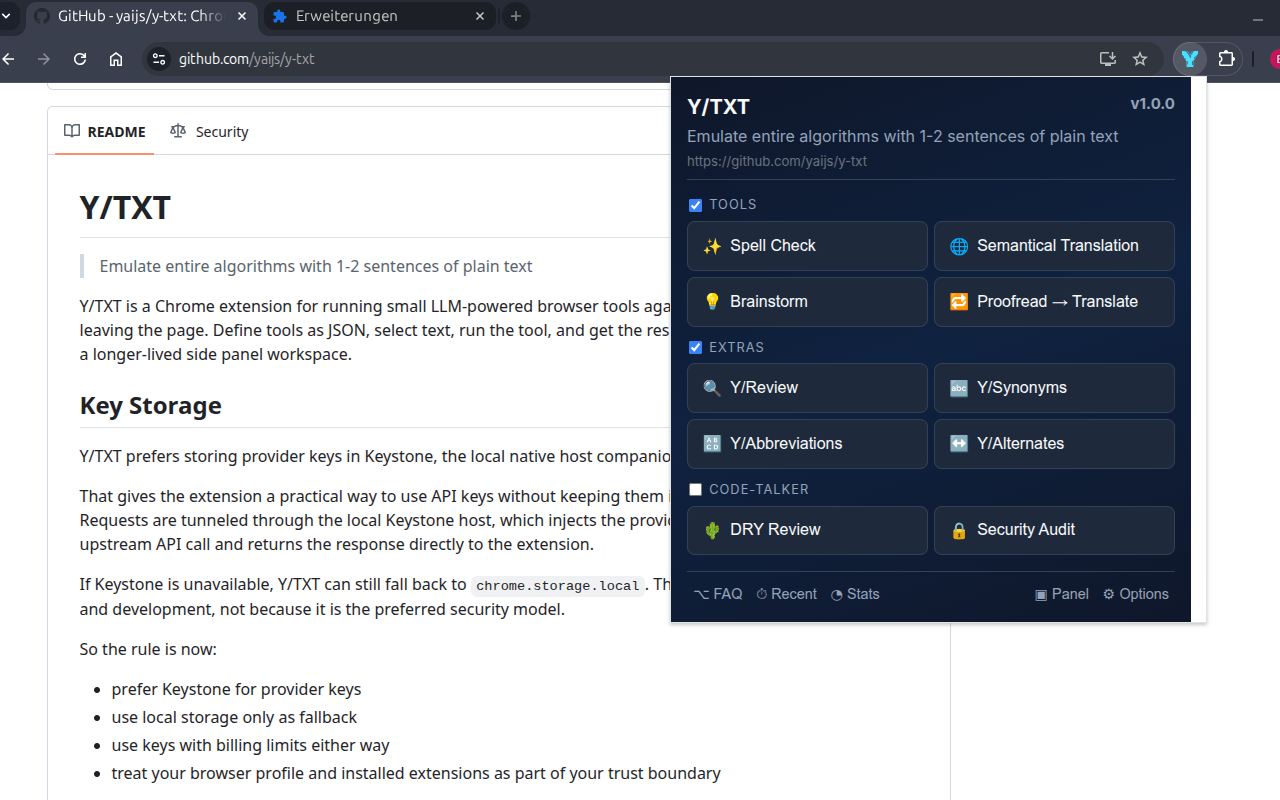
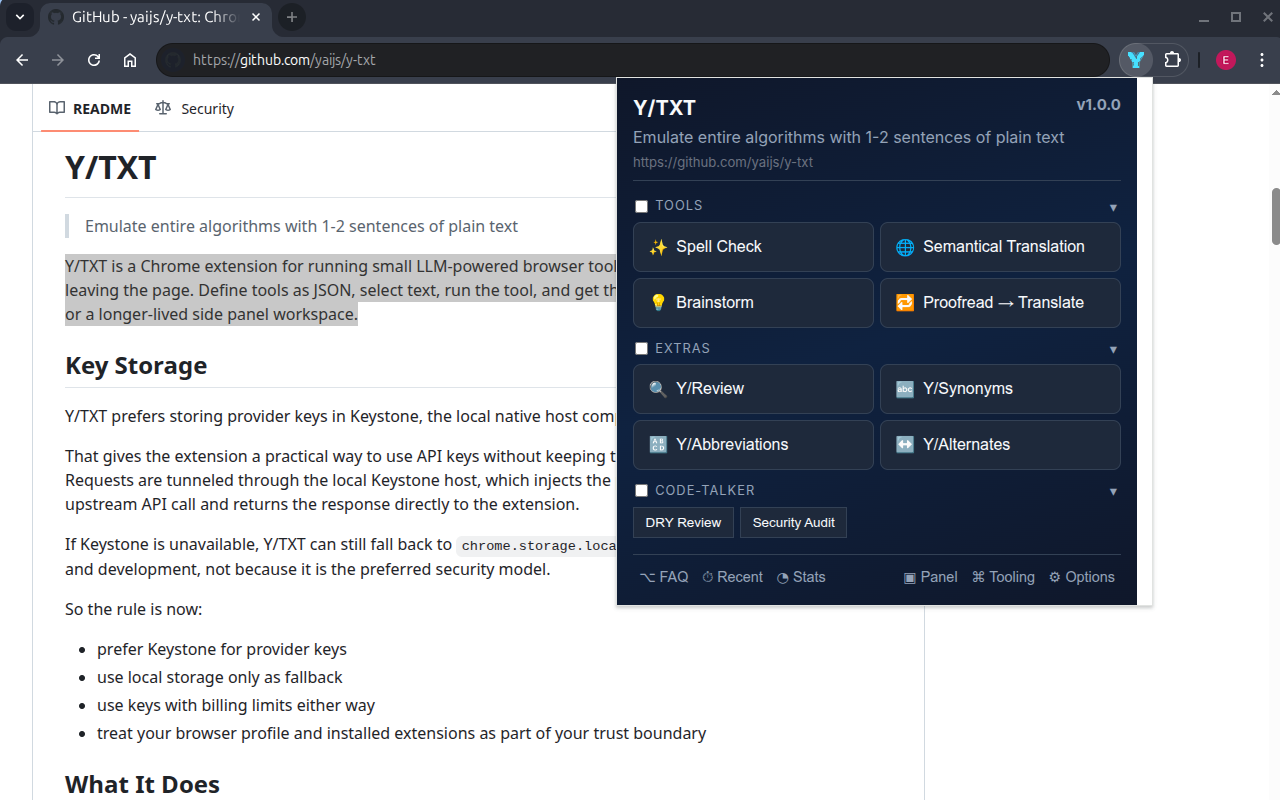
Refine popup categories and tool metadata UX

Changed region(s): [[0.0, 0.0, 1.0, 1.0], [0.9688, 0.25, 1.0, 0.3125]]

diff --git a/src/popup/main.ts b/src/popup/main.ts
@@ -73,6 +73,7 @@ const btnOptions = document.getElementById('btn-options') as HTMLButtonElement;
 const ACTIVE_RUN_STORAGE_KEY = 'activeRunState';
 const WORKSPACE_STORAGE_KEY = 'workspaceState';
 const SURFACE_LOCK_STORAGE_KEY = 'uiSurfaceLock';
+const CATEGORY_COLLAPSE_STORAGE_KEY = 'categoryCollapsed';
 const SIDE_PANEL_PORT_PREFIX = 'ytxt-sidepanel:';
 const surface = document.body.dataset.surface === 'sidepanel' ? 'sidepanel' : 'popup';
 const isSidePanelSurface = surface === 'sidepanel';
@@ -84,6 +85,7 @@ let activeCategories: Category[] = [];
 let activeToolIndex = new Map<string, ToolDef>();
 let currentOptions: Record<string, string> = {};
 let categoryAutoRun: Record<string, boolean> = {};
+let categoryCollapsed: Record<string, boolean> = {};
 let previousView: 'main' | 'history' = 'main';
 let activeRequestId: string | null = null;
 let activeRunRequestId: string | null = null;
@@ -481,6 +483,25 @@ async function setCategoryAutoRun(categoryId: string, enabled: boolean): Promise
     [categoryId]: enabled
   };
   await chrome.storage.local.set({ categoryAutoRun });
+}
+
+async function loadCategoryCollapsed(): Promise<Record<string, boolean>> {
+  const stored = await chrome.storage.local.get(CATEGORY_COLLAPSE_STORAGE_KEY) as { categoryCollapsed?: unknown };
+  if (!isObject(stored.categoryCollapsed)) {
+    return {};
+  }
+
+  return Object.fromEntries(
+    Object.entries(stored.categoryCollapsed).filter(([, value]) => typeof value === 'boolean')
+  ) as Record<string, boolean>;
+}
+
+async function setCategoryCollapsed(categoryId: string, collapsed: boolean): Promise<void> {
+  categoryCollapsed = {
+    ...categoryCollapsed,
+    [categoryId]: collapsed
+  };
+  await chrome.storage.local.set({ [CATEGORY_COLLAPSE_STORAGE_KEY]: categoryCollapsed });
 }
 
 function normalizeHistoryEntry(value: unknown): HistoryEntry | null {
@@ -1546,6 +1567,7 @@ async function loadLastUsedTargetLanguage(): Promise<string> {
 
   preferredTargetLanguage = await loadLastUsedTargetLanguage();
   categoryAutoRun = await loadCategoryAutoRun();
+  categoryCollapsed = isPopupSurface ? await loadCategoryCollapsed() : {};
   setCategories(await loadCategories());
   toolListEl.innerHTML = '';
 
@@ -1559,11 +1581,14 @@ async function loadLastUsedTargetLanguage(): Promise<string> {
 
     const categoryLabel = document.createElement('div');
     categoryLabel.className = 'category-label';
+    const categoryLabelMain = document.createElement('div');
+    categoryLabelMain.className = 'category-label-main';
     const autoRunId = `category-auto-run-${category.id}`;
     const autoRun = document.createElement('input');
     autoRun.type = 'checkbox';
     autoRun.id = autoRunId;
     autoRun.checked = categoryAutoRun[category.id] === true;
+    autoRun.title = msg('categoryAutoRunTitle');
     autoRun.addEventListener('change', () => {
       void setCategoryAutoRun(category.id, autoRun.checked);
     });
@@ -1573,16 +1598,44 @@ async function loadLastUsedTargetLanguage(): Promise<string> {
     labelText.htmlFor = autoRunId;
     labelText.textContent = category.label;
 
-    categoryLabel.appendChild(autoRun);
-    categoryLabel.appendChild(labelText);
+    categoryLabelMain.appendChild(autoRun);
+    categoryLabelMain.appendChild(labelText);
+    categoryLabel.appendChild(categoryLabelMain);
     categoryEl.appendChild(categoryLabel);
 
     const btnGrid = document.createElement('div');
     btnGrid.className = 'tool-btn-grid';
+    if (category.flatList) {
+      btnGrid.classList.add('flat-list');
+    }
+    if (isPopupSurface && categoryCollapsed[category.id] === true) {
+      btnGrid.classList.add('is-collapsed');
+    }
+
+    if (isPopupSurface) {
+      const collapseBtn = document.createElement('button');
+      collapseBtn.type = 'button';
+      collapseBtn.className = 'category-collapse-btn';
+      const syncCollapseUi = () => {
+        const collapsed = btnGrid.classList.contains('is-collapsed');
+        collapseBtn.textContent = collapsed ? msg('expandCategorySymbol') : msg('collapseCategorySymbol');
+        collapseBtn.title = collapsed ? msg('expandCategoryTitle') : msg('collapseCategoryTitle');
+      };
+      syncCollapseUi();
+      collapseBtn.addEventListener('click', () => {
+        btnGrid.classList.toggle('is-collapsed');
+        syncCollapseUi();
+        void setCategoryCollapsed(category.id, btnGrid.classList.contains('is-collapsed'));
+      });
+      categoryLabel.appendChild(collapseBtn);
+    }
 
     category.tools.forEach((tool) => {
       const btn = document.createElement('button');
       btn.className = 'tool-btn';
+      if (category.flatList) {
+        btn.classList.add('tool-btn-flat');
+      }
       btn.innerHTML = tool.icon ? `<span>${tool.icon}</span> ${tool.name}` : tool.name;
 
       btn.addEventListener('click', async () => {

diff --git a/popup.html b/popup.html
@@ -79,12 +79,19 @@
       display: flex;
       align-items: center;
       gap: 0.45rem;
+      justify-content: space-between;
       font-size: 0.8rem;
       text-transform: uppercase;
       letter-spacing: 0.08em;
       color: var(--muted);
       margin-bottom: 0.4rem;
       padding-left: 2px;
+    }
+    .category-label-main {
+      display: flex;
+      align-items: center;
+      gap: 0.45rem;
+      min-width: 0;
     }
     .category-label input[type="checkbox"] {
       margin: 0;
@@ -93,10 +100,33 @@
     .category-label-text {
       cursor: pointer;
     }
+    .category-collapse-btn {
+      flex: 0 0 auto;
+      background: transparent;
+      border: none;
+      color: var(--muted);
+      font-size: 0.9rem;
+      padding: 0 4px;
+      cursor: pointer;
+    }
+    .category-collapse-btn:hover {
+      color: var(--text);
+    }
     .tool-btn-grid {
       display: grid;
       grid-template-columns: 1fr 1fr;
       gap: 0.35rem;
+    }
+    .tool-btn-grid.is-collapsed {
+      display: none;
+    }
+    .tool-btn-grid.flat-list {
+      display: flex;
+      flex-wrap: wrap;
+      gap: 0.4rem;
+    }
+    .tool-btn-grid.flat-list.is-collapsed {
+      display: none;
     }
     .tool-options-container {
       display: none;
@@ -127,6 +157,18 @@
     .tool-btn:hover {
       border-color: var(--accent);
       background: rgba(59, 130, 246, 0.1);
+    }
+    .tool-btn.tool-btn-flat {
+      flex: 0 1 auto;
+      display: inline-flex;
+      justify-content: center;
+      padding: 0.46rem 0.72rem;
+      border-radius: 0;
+      font-size: 0.84rem;
+      text-align: center;
+      white-space: nowrap;
+      min-height: 0;
+      gap: 0.35rem;
     }
     .footer {
       margin-top: 1rem;
@@ -666,8 +708,8 @@
 <div id="tool-options-container" class="tool-options-container"></div>
 
     <div style="display: flex; gap: 6px; margin-bottom: 1rem;">
-      <button id="btn-append" style="flex: 1; padding: 8px; font-size: 0.82rem; background: var(--card-bg); border: 1px solid var(--border); color: var(--text); border-radius:4px;" data-i18n="appendSelection">+ selection</button>
-      <button id="btn-override" style="flex: 1; padding: 8px; font-size: 0.82rem; background: var(--card-bg); border: 1px solid var(--border); color: var(--text); border-radius:4px;" data-i18n="overrideSelection">= selection</button>
+      <button id="btn-append" style="flex: 1; padding: 8px; font-size: 0.82rem; background: var(--card-bg); border: 1px solid var(--border); color: var(--text); border-radius:4px;" data-i18n="appendSelection" data-i18n-title="appendSelectionTitle">+ selection</button>
+      <button id="btn-override" style="flex: 1; padding: 8px; font-size: 0.82rem; background: var(--card-bg); border: 1px solid var(--border); color: var(--text); border-radius:4px;" data-i18n="overrideSelection" data-i18n-title="overrideSelectionTitle">= selection</button>
       <button id="btn-reset" style="padding: 8px 12px; font-size: 0.82rem; background: transparent; border: 1px solid var(--border); color: #ef4444; border-radius:4px;" data-i18n="resetButton">reset</button>
     </div>
 

diff --git a/sidepanel.html b/sidepanel.html
@@ -86,6 +86,12 @@
       margin-bottom: 0.4rem;
       padding-left: 2px;
     }
+    .category-label-main {
+      display: flex;
+      align-items: center;
+      gap: 0.45rem;
+      min-width: 0;
+    }
     .category-label input[type="checkbox"] {
       margin: 0;
       accent-color: var(--accent);
@@ -97,6 +103,11 @@
       display: grid;
       grid-template-columns: 1fr 1fr;
       gap: 0.35rem;
+    }
+    .tool-btn-grid.flat-list {
+      display: flex;
+      flex-wrap: wrap;
+      gap: 0.4rem;
     }
     .tool-options-container {
       display: none;
@@ -127,6 +138,18 @@
     .tool-btn:hover {
       border-color: var(--accent);
       background: rgba(59, 130, 246, 0.1);
+    }
+    .tool-btn.tool-btn-flat {
+      flex: 0 1 auto;
+      display: inline-flex;
+      justify-content: center;
+      padding: 0.46rem 0.72rem;
+      border-radius: 999px;
+      font-size: 0.84rem;
+      text-align: center;
+      white-space: nowrap;
+      min-height: 0;
+      gap: 0.35rem;
     }
     .footer {
       margin-top: 1rem;
@@ -666,8 +689,8 @@
 <div id="tool-options-container" class="tool-options-container"></div>
 
     <div style="display: flex; gap: 6px; margin-bottom: 1rem;">
-      <button id="btn-append" style="flex: 1; padding: 8px; font-size: 0.82rem; background: var(--card-bg); border: 1px solid var(--border); color: var(--text); border-radius:4px;" data-i18n="appendSelection">+ selection</button>
-      <button id="btn-override" style="flex: 1; padding: 8px; font-size: 0.82rem; background: var(--card-bg); border: 1px solid var(--border); color: var(--text); border-radius:4px;" data-i18n="overrideSelection">= selection</button>
+      <button id="btn-append" style="flex: 1; padding: 8px; font-size: 0.82rem; background: var(--card-bg); border: 1px solid var(--border); color: var(--text); border-radius:4px;" data-i18n="appendSelection" data-i18n-title="appendSelectionTitle">+ selection</button>
+      <button id="btn-override" style="flex: 1; padding: 8px; font-size: 0.82rem; background: var(--card-bg); border: 1px solid var(--border); color: var(--text); border-radius:4px;" data-i18n="overrideSelection" data-i18n-title="overrideSelectionTitle">= selection</button>
       <button id="btn-reset" style="padding: 8px 12px; font-size: 0.82rem; background: transparent; border: 1px solid var(--border); color: #ef4444; border-radius:4px;" data-i18n="resetButton">reset</button>
     </div>
 

diff --git a/src/config/index.ts b/src/config/index.ts
@@ -161,6 +161,7 @@ export function validateCategories(value: unknown): Category[] {
     const category: Category = {
       id: categoryId,
       label: requireString(entry.label, `${path}.label`),
+      flatList: entry.flatList === true,
       tools: entry.tools.map((tool, toolIndex) => {
         const validatedTool = validateTool(tool, `${path}.tools[${toolIndex}]`);
         if (toolIds.has(validatedTool.id)) {

diff --git a/src/tools/types.ts b/src/tools/types.ts
@@ -32,5 +32,6 @@ export interface ToolDef extends Partial<ToolPromptDef> {
 export interface Category {
   id: string;
   label: string;
+  flatList?: boolean;
   tools: ToolDef[];
 }

diff --git a/TOOL.PROTOTYPES.md b/TOOL.PROTOTYPES.md
@@ -27,6 +27,7 @@ For faster iteration, use the built-in footer entry `🧰 Tooling`. It opens the
 | `id` | Unique identifier. Use letters, numbers, `_`, and keep it stable. |
 | `name` | Human-facing tool label in the UI. |
 | `icon` | Optional emoji for fast visual scanning. |
+| `description` | Optional plain-text note shown behind the `Info` toggle in the workspace. |
 | `model` | Preconfigured tier such as `default`, `fast`, `coding`, or `creative`. |
 | `provider` | Optional provider override for the whole tool or a specific step. |
 | `temperature` | Creativity / variance control. Lower is stricter. |
@@ -88,6 +89,17 @@ Y/TXT injects the shared `targetLanguage` select automatically, so the tool can 
 
 This keeps translation tools compact and centralized.
 
+### Optional tool description
+
+If a tool includes:
+
+```json
+"description": "Short explanation of what the tool does and when to use it."
+```
+
+Y/TXT shows an `Info` button next to the input label in the workspace.
+Descriptions are treated as plain text and rendered with preserved line breaks, so they are safe to share and still readable for longer notes.
+
 ### Advanced config-aware placeholders
 
 These are especially useful for the built-in `Tool Generator`, but any tool can use them:
@@ -122,6 +134,7 @@ Do not split one obvious rewrite into three model calls just because you can.
   "icon": "✨",
   "id": "professional_polish",
   "name": "Professional Polish",
+  "description": "Polishes business or professional writing without changing the intended meaning.",
   "systemPrompt": "You are an expert editor. Improve clarity, professionalism, tone, and flow. Fix grammar and awkward phrasing while preserving the original meaning and voice. Output only the polished version.",
   "userMessage": "Polish this text to sound professional and confident:\n\n{{input}}",
   "temperature": 0.3
@@ -177,6 +190,7 @@ Do not split one obvious rewrite into three model calls just because you can.
   "icon": "🔁",
   "id": "proofread_translate",
   "name": "Proofread -> Translate",
+  "description": "First cleans up the source text, then translates it into the selected target language.",
   "languages": true,
   "steps": [
     {
@@ -263,6 +277,7 @@ That makes it a good first stop when you want to:
 ## Design Rules That Age Well
 
 - Keep tool IDs stable once you start using them in history.
+- Add a `description` when the tool's intent is not obvious from the name alone.
 - Put strict output rules in `systemPrompt`, not only in `userMessage`.
 - Prefer one excellent pass over three vague chained passes.
 - Reuse shared language config with `languages: true`.
